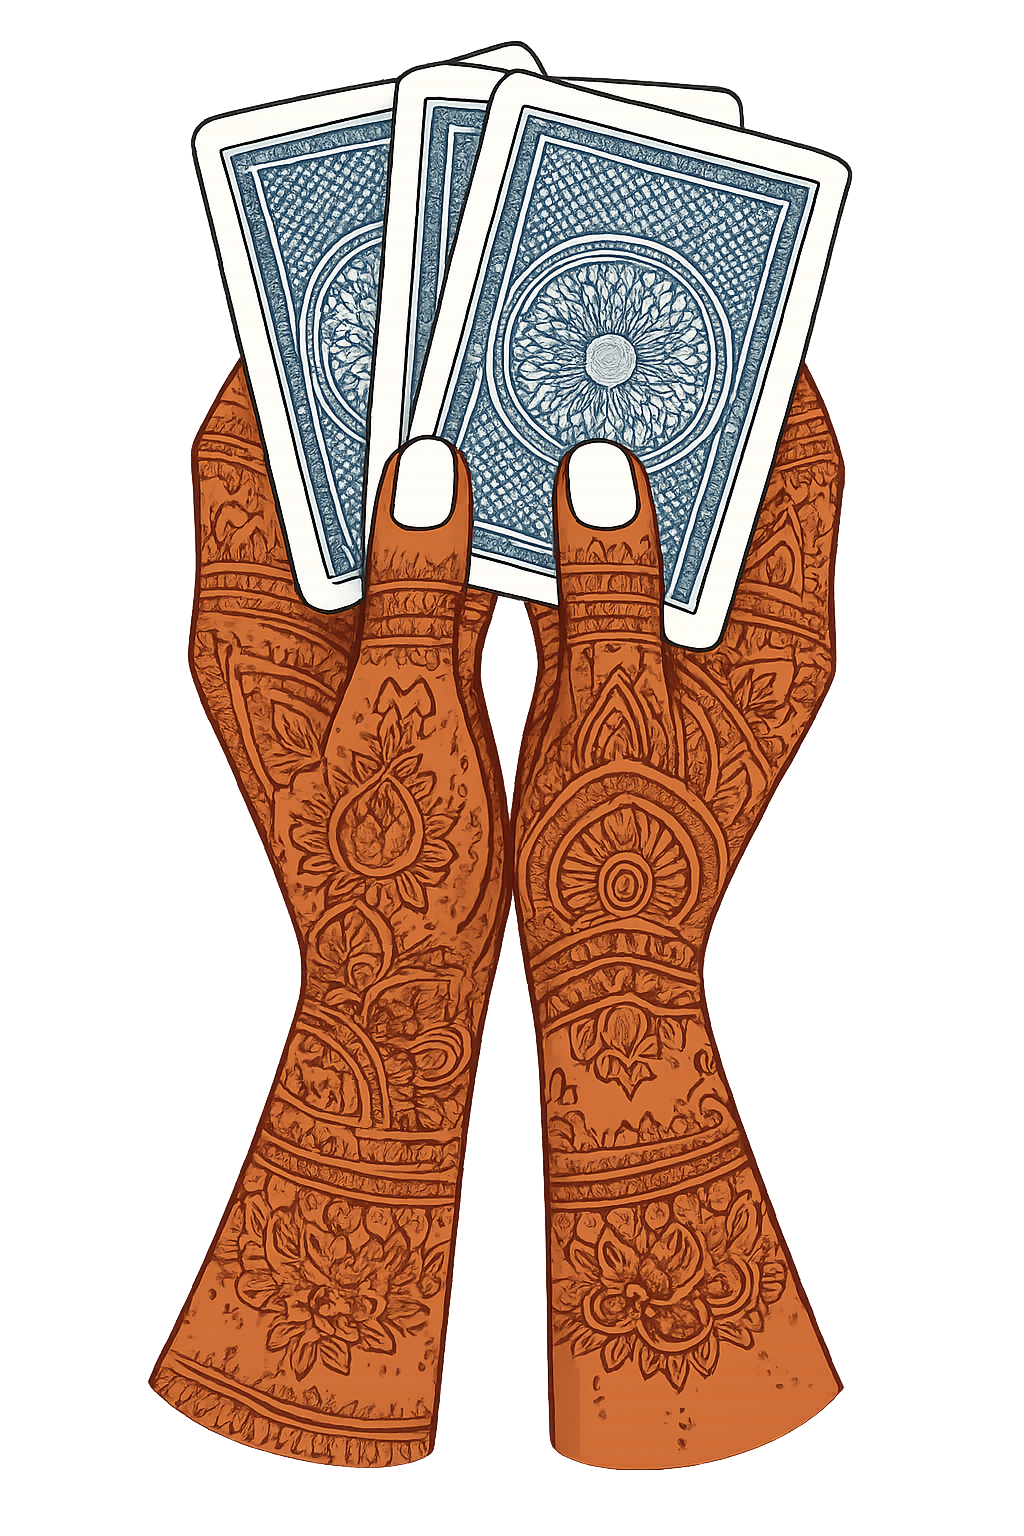
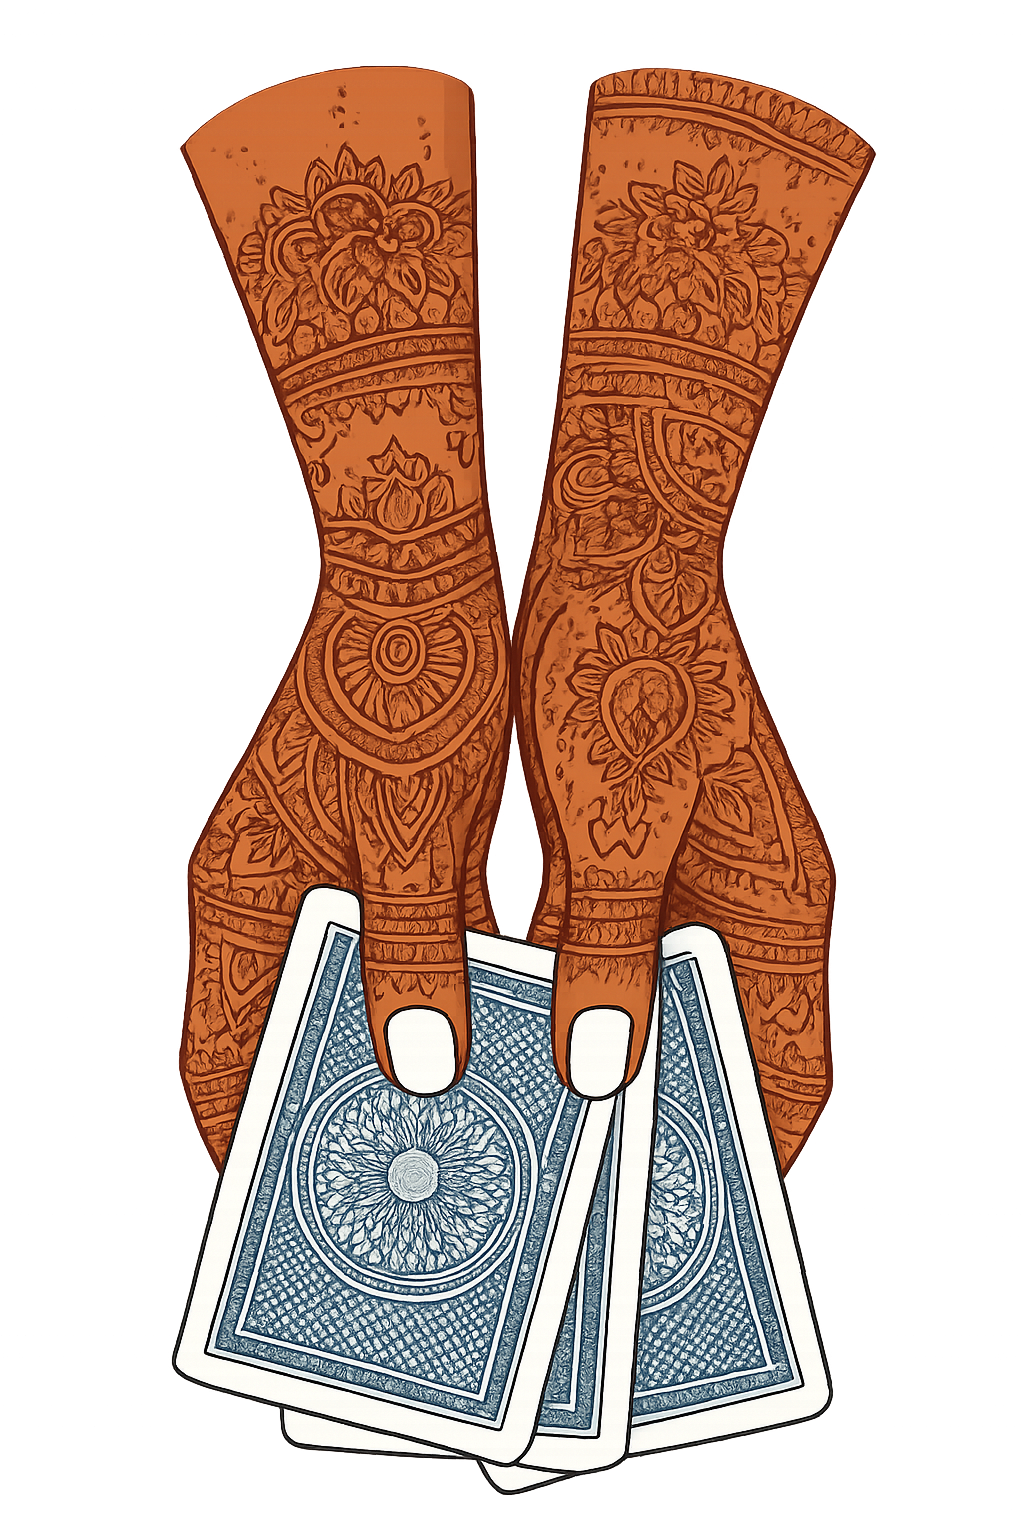
proper responsive dealing

diff --git a/src/app/components/stacks/stacks.jsx b/src/app/components/stacks/stacks.jsx
@@ -14,7 +14,7 @@ function Stacks(){
     const [workingVisible,setWorkingVisible] = useState(false);
     const [labelsVisible,setLabelsVisible] = useState(false);
 
-    const initialCardClass1 = "absolute -translate-y-[100%] scale-50";
+    const initialCardClass1 = "absolute top-0 -translate-y-[45%] scale-60";
     const initialCardClass2 = "";
     const initialCardClass3 = "cardFlipClass ";
     
@@ -26,10 +26,10 @@ function Stacks(){
         const animate = () =>{
             if(!animated.current){
                 setTimeout(() => {setCardClasses(initialCardClass2);setWorkingVisible(true)},1100);
-                setTimeout(() => {setLabelsVisible(true);},2100);
+                setTimeout(() => {setLabelsVisible(true);},1800);
                 setTimeout(() => setCardClasses(initialCardClass3),1700);
                 setTimeout(() => setAfterAnimationHand('-translate-y-[100%]'),1700);
-                setTimeout(() => setAfterAnimationHand('hidden -translate-y-[50%]'),2200);
+                setTimeout(() => setAfterAnimationHand('hidden -translate-y-[100%]'),2200);
                 animated.current = true;
             }
         }
@@ -55,22 +55,22 @@ function Stacks(){
     },[])
 
     return(
-        <div className="overflow-y-hidden bg-linear-to-r relative from-violet-200 to-red-200  h-screen w-screen" >
+        <div className="overflow-y-hidden bg-linear-to-r relative from-violet-200 to-red-200 min-h-screen w-screen" >
             <Image
                 ref={handRef}
                 src="/hands.png"
                 width={120}
                 height={120}
                 alt="hands"
-                className={`${afterAnimationHand} absolute top-0 left-1/2 -translate-x-1/2 rotate-180 transition-transform duration-500 ease-in-out`}
+                className={`${afterAnimationHand} absolute top-0 left-1/2 -translate-x-1/2 transition-transform duration-500 ease-in-out`}
             />
 
-            <div className="relative flex flex-col items-center w-screen  top-2/8 -translate-y-1/2">
-                <span className="mb-10 text-2xl">{labelsVisible && "STRONG EXPERIENCE IN"} </span>
-                <div className="gap-10 top-10 flex absolute w-screen flex-wrap justify-center">
+            <div className={`relative flex flex-col items-center w-screen  ${labelsVisible ? 'top-10' :'top-30'}`}>
+                <span className="mb-5 text-2xl">{labelsVisible && "STRONG EXPERIENCE IN"} </span>
+                <div className="gap-10  flex relative w-screen flex-wrap justify-center ">
                     {strongStacks.map(stack => 
-                        <div key={stack} className={cardClasses+" flex items-center flex-col transition-transform duration-600 ease-in-out"}>
-                            <div className={" flex justify-center items-center  rounded-md border-6  border-gray-100 bg-gray-50 h-[132px] w-[90px]"}>
+                        <div key={stack} className={cardClasses+" flex items-center flex-col transition-transform duration-800 ease-in-out"}>
+                            <div className={" flex justify-center items-center  rounded-md border-6  border-gray-100 bg-gray-50 h-[100px] w-[68px]"}>
                                 <Image  
                                     alt="card" 
                                     src={labelsVisible ? `/stacks/${stack.replace(" ","").toLowerCase()}.png` : "/card.png"} 
@@ -80,17 +80,17 @@ function Stacks(){
                                 />
                                 
                             </div>
-                            <span className="mt-1 text-xl text-transparent bg-clip-text bg-gradient-to-l from-red-900 to-violet-900">{labelsVisible && stack}</span>
+                            <span className="mt-1 text-md text-transparent bg-clip-text bg-gradient-to-l from-red-900 to-violet-900">{labelsVisible && stack}</span>
                         </div>
                     )}
 
                 </div>
 
-                <span className="mb-10 absolute top-60 text-xl">{labelsVisible && "WORKING KNOWLEDGE OF"} </span>
-                <div className="gap-10 top-70 flex absolute w-screen flex-wrap justify-center">
+                <span className="mb-5 relative top-10 text-xl">{labelsVisible && "WORKING KNOWLEDGE OF"} </span>
+                <div className="gap-10 top-10 mb-30 flex relative w-screen flex-wrap justify-center">
                     {workingStacks.map((stack,index) => 
                         <div key={stack} className={cardClasses+" flex items-center flex-col transition-transform duration-600 ease-in-out"}>
-                            <div className={` flex justify-center items-center  rounded-md border-6  border-gray-100 bg-gray-50 ${!workingVisible && "hidden"} ${labelsVisible ? 'h-[88px] w-[60px]' : 'h-[132px] w-[90px]'}`}>
+                            <div className={` flex justify-center items-center  rounded-md border-6  border-gray-100 bg-gray-50 ${!workingVisible && "hidden"} ${labelsVisible ? 'h-[88px] w-[60px]' : 'h-[100px] w-[68px]'}`}>
                                 <Image  
                                     alt="card" 
                                     src={labelsVisible ? `/stacks/${stack.replace(" ","").toLowerCase()}.png` : "/card.png"} 
@@ -100,7 +100,7 @@ function Stacks(){
                                 />
                                 
                             </div>
-                            <span className="mt-1 text-lg text-transparent bg-clip-text bg-gradient-to-l from-red-900 to-violet-900">{labelsVisible && stack}</span>
+                            <span className="mt-1 text-xs text-transparent bg-clip-text bg-gradient-to-l from-red-900 to-violet-900">{labelsVisible && stack}</span>
                         </div>
                     )}
 

diff --git a/src/app/page.js b/src/app/page.js
@@ -6,7 +6,7 @@ import { pageDatas } from "./components/pageDatas";
 import { useMediaQuery } from "react-responsive";
 
 export default function Home(){
-  const [page,setPage] = useState(0);
+  const [page,setPage] = useState(1);
   const [scrolling, setScrolling] = useState(false);
   const isMobileView = useMediaQuery({query:'(max-width:767px)'});
   const numOfPages = pageDatas.length;
